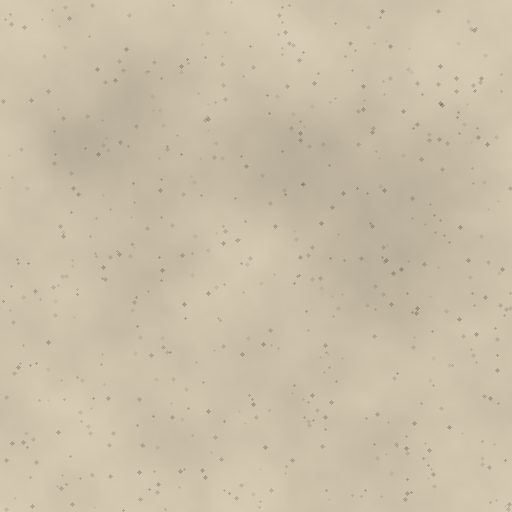
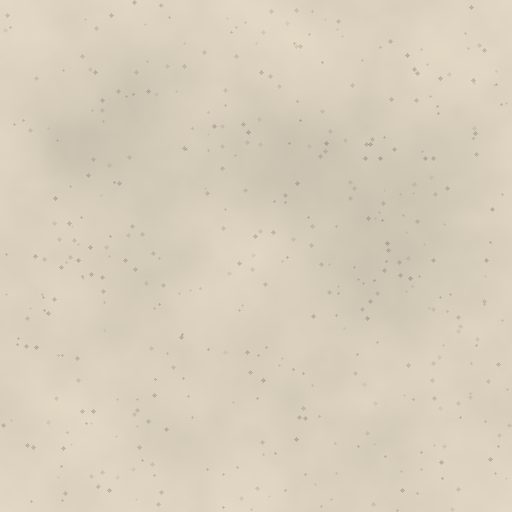
Legibilidad: muro del linaje y footer aclarado +10%, textos secundarios oscurecidos (peor caso >=5:1)

diff --git a/src/gusuku.css b/src/gusuku.css
@@ -338,9 +338,9 @@ footer .pie-inner { text-align: center; padding-bottom: 42px; }
   padding: 16px 28px 32px;
   border-top: 1px solid var(--pelo);
   font-size: 12.5px;
-  color: var(--tinta-2);
+  color: #3f3831;
 }
-.legal .fuente { margin-top: 4px; font-size: 12px; opacity: 0.8; }
+.legal .fuente { margin-top: 4px; font-size: 12px; color: #3f3831; }
 
 /* --- páginas internas: el mismo muro, salas contiguas --- */
 .skip {

diff --git a/tools/texturas_gusuku.py b/tools/texturas_gusuku.py
@@ -44,7 +44,7 @@ def main():
     OUT.mkdir(parents=True, exist_ok=True)
     for nombre, args in {
         'encalado.jpg': ((512, 7, (233, 225, 208), 0.10, 0.0011, 0.14)),
-        'muro.jpg': ((512, 17, (206, 194, 171), 0.14, 0.0022, 0.20)),
+        'muro.jpg': ((512, 17, (219, 209, 190), 0.10, 0.0016, 0.16)),
     }.items():
         Image.fromarray(revoque(*args).astype(np.uint8)).save(OUT / nombre, quality=82)
         print('generado', OUT / nombre)
